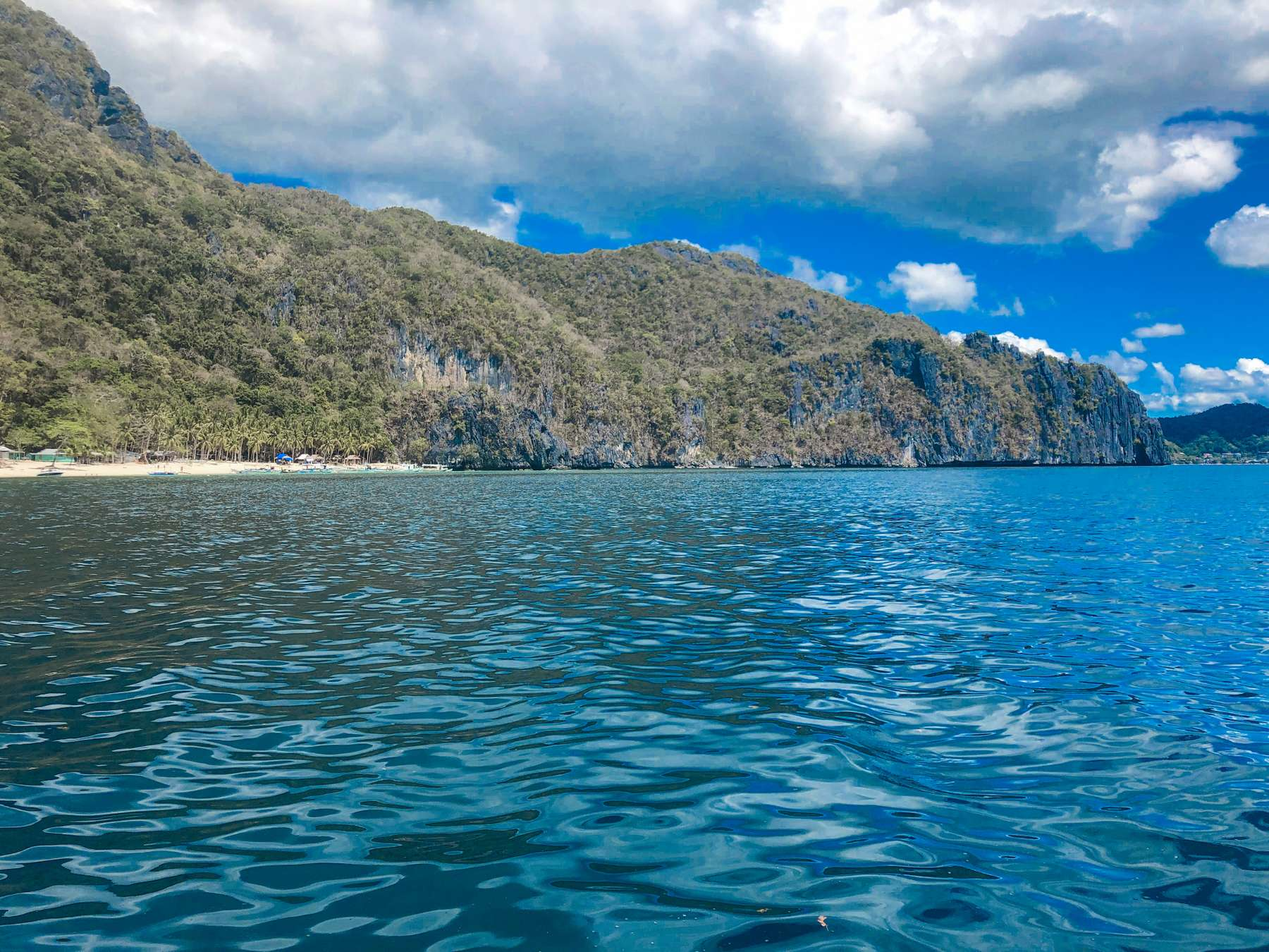
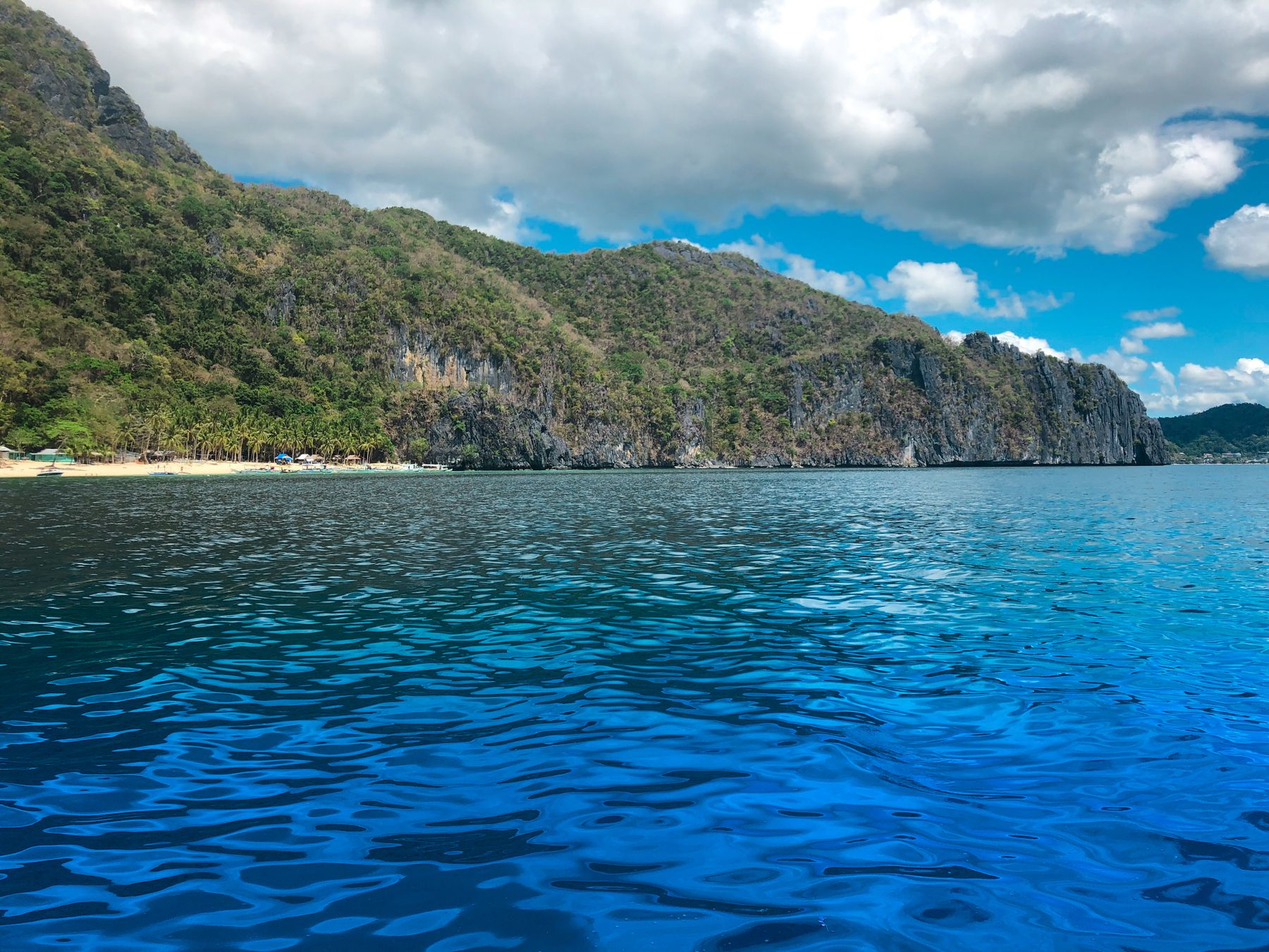
feat: update images in el nido tour a and himeji castle

diff --git a/src/pages/asia/japan/himeji/himeji-castle.tsx b/src/pages/asia/japan/himeji/himeji-castle.tsx
@@ -121,7 +121,15 @@ const IndexPage: React.FunctionComponent<PageProps> = ({ location }) => {
         <WhereToHave title={t("where-to-have.title")}>
           <p>{t("where-to-have.part1")}</p>
           <p>{t("where-to-have.part2")}</p>
-          <ImageAsPortrait>
+          <ImageAsPortrait
+            css={css`
+              max-width: 50%;
+              @media (min-width: ${mediumStart}) {
+                max-width: 40%;
+              }
+            `}
+            className="no-reset-image"
+          >
             <HimejiCastleImages image="gyuKaku" />
           </ImageAsPortrait>
           {foodLinkPublished && <p>{t("where-to-have.part3")}</p>}

diff --git a/src/components/images/asia/philippines/el-nido/tour-a.tsx b/src/components/images/asia/philippines/el-nido/tour-a.tsx
@@ -230,7 +230,7 @@ export const TourAImages: React.FunctionComponent<ExtraImageProps & { image: key
         relativePath: { eq: "asia/philippines/el-nido/tour-a/tour-a-seven-commando-beach.jpg" }
       ) {
         childImageSharp {
-          fluid(maxWidth: 1200, quality: 60, srcSetBreakpoints: [600]) {
+          fluid(maxWidth: 1200, quality: 80, srcSetBreakpoints: [600]) {
             ...GatsbyImageSharpFluid
           }
         }
